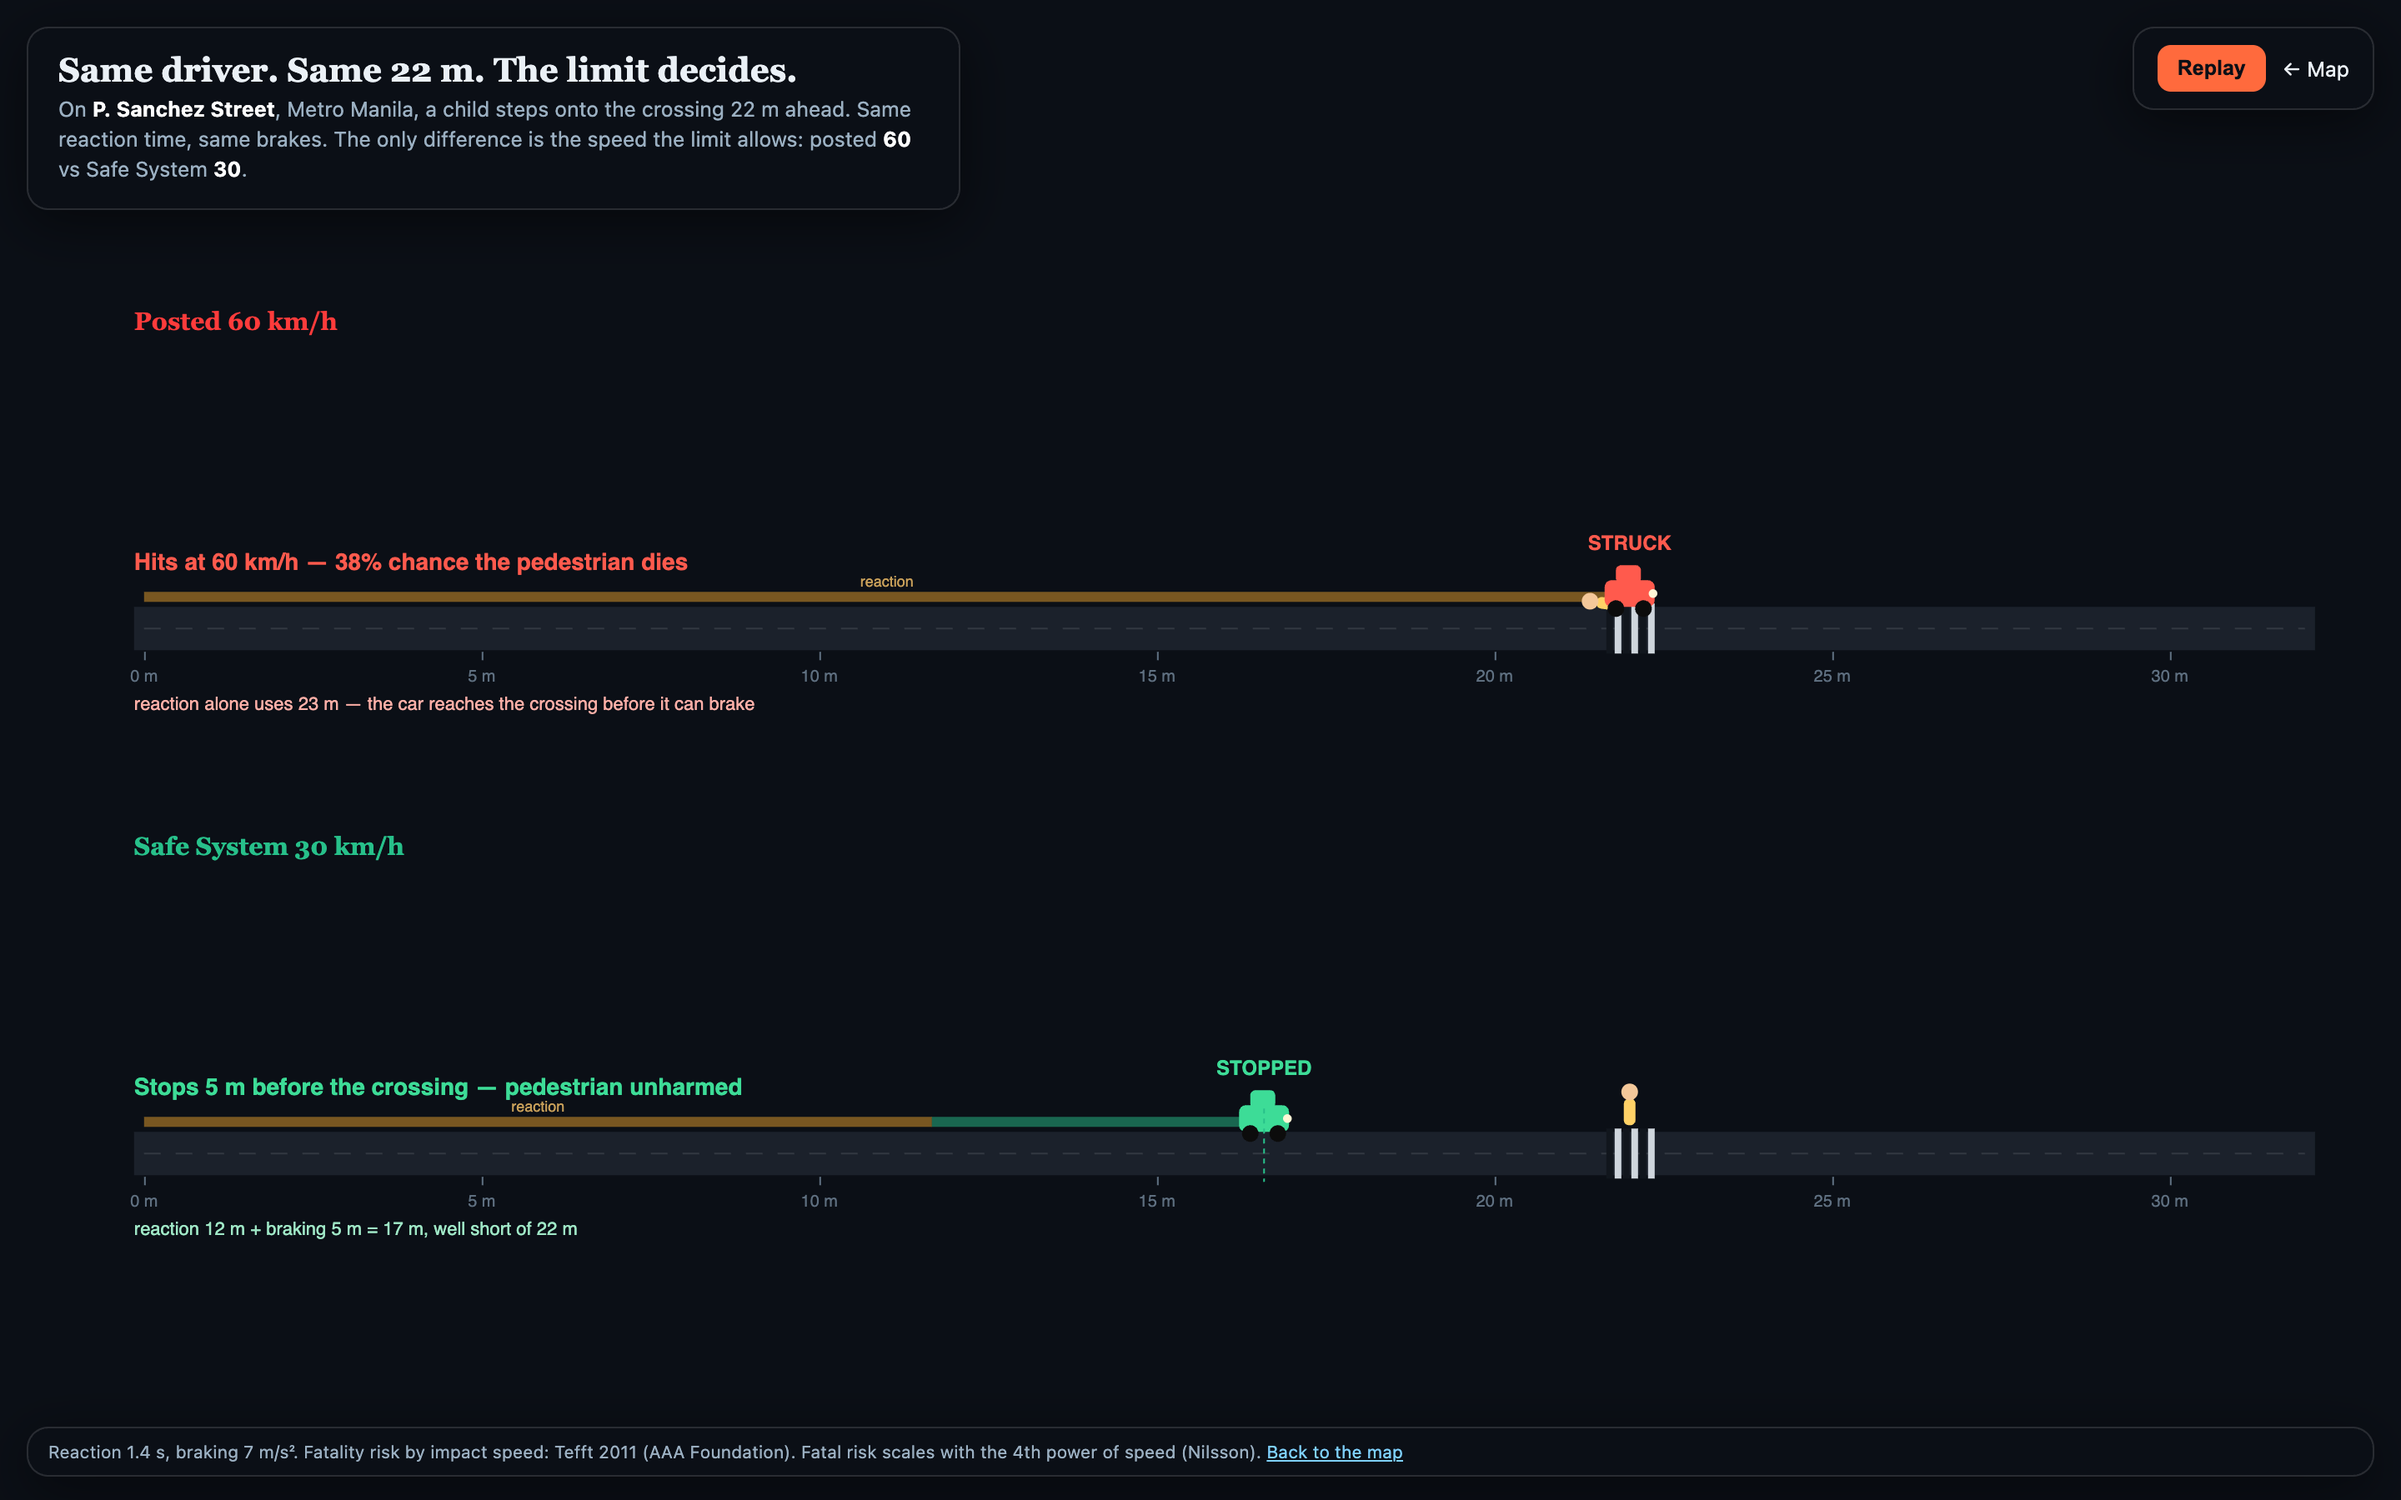
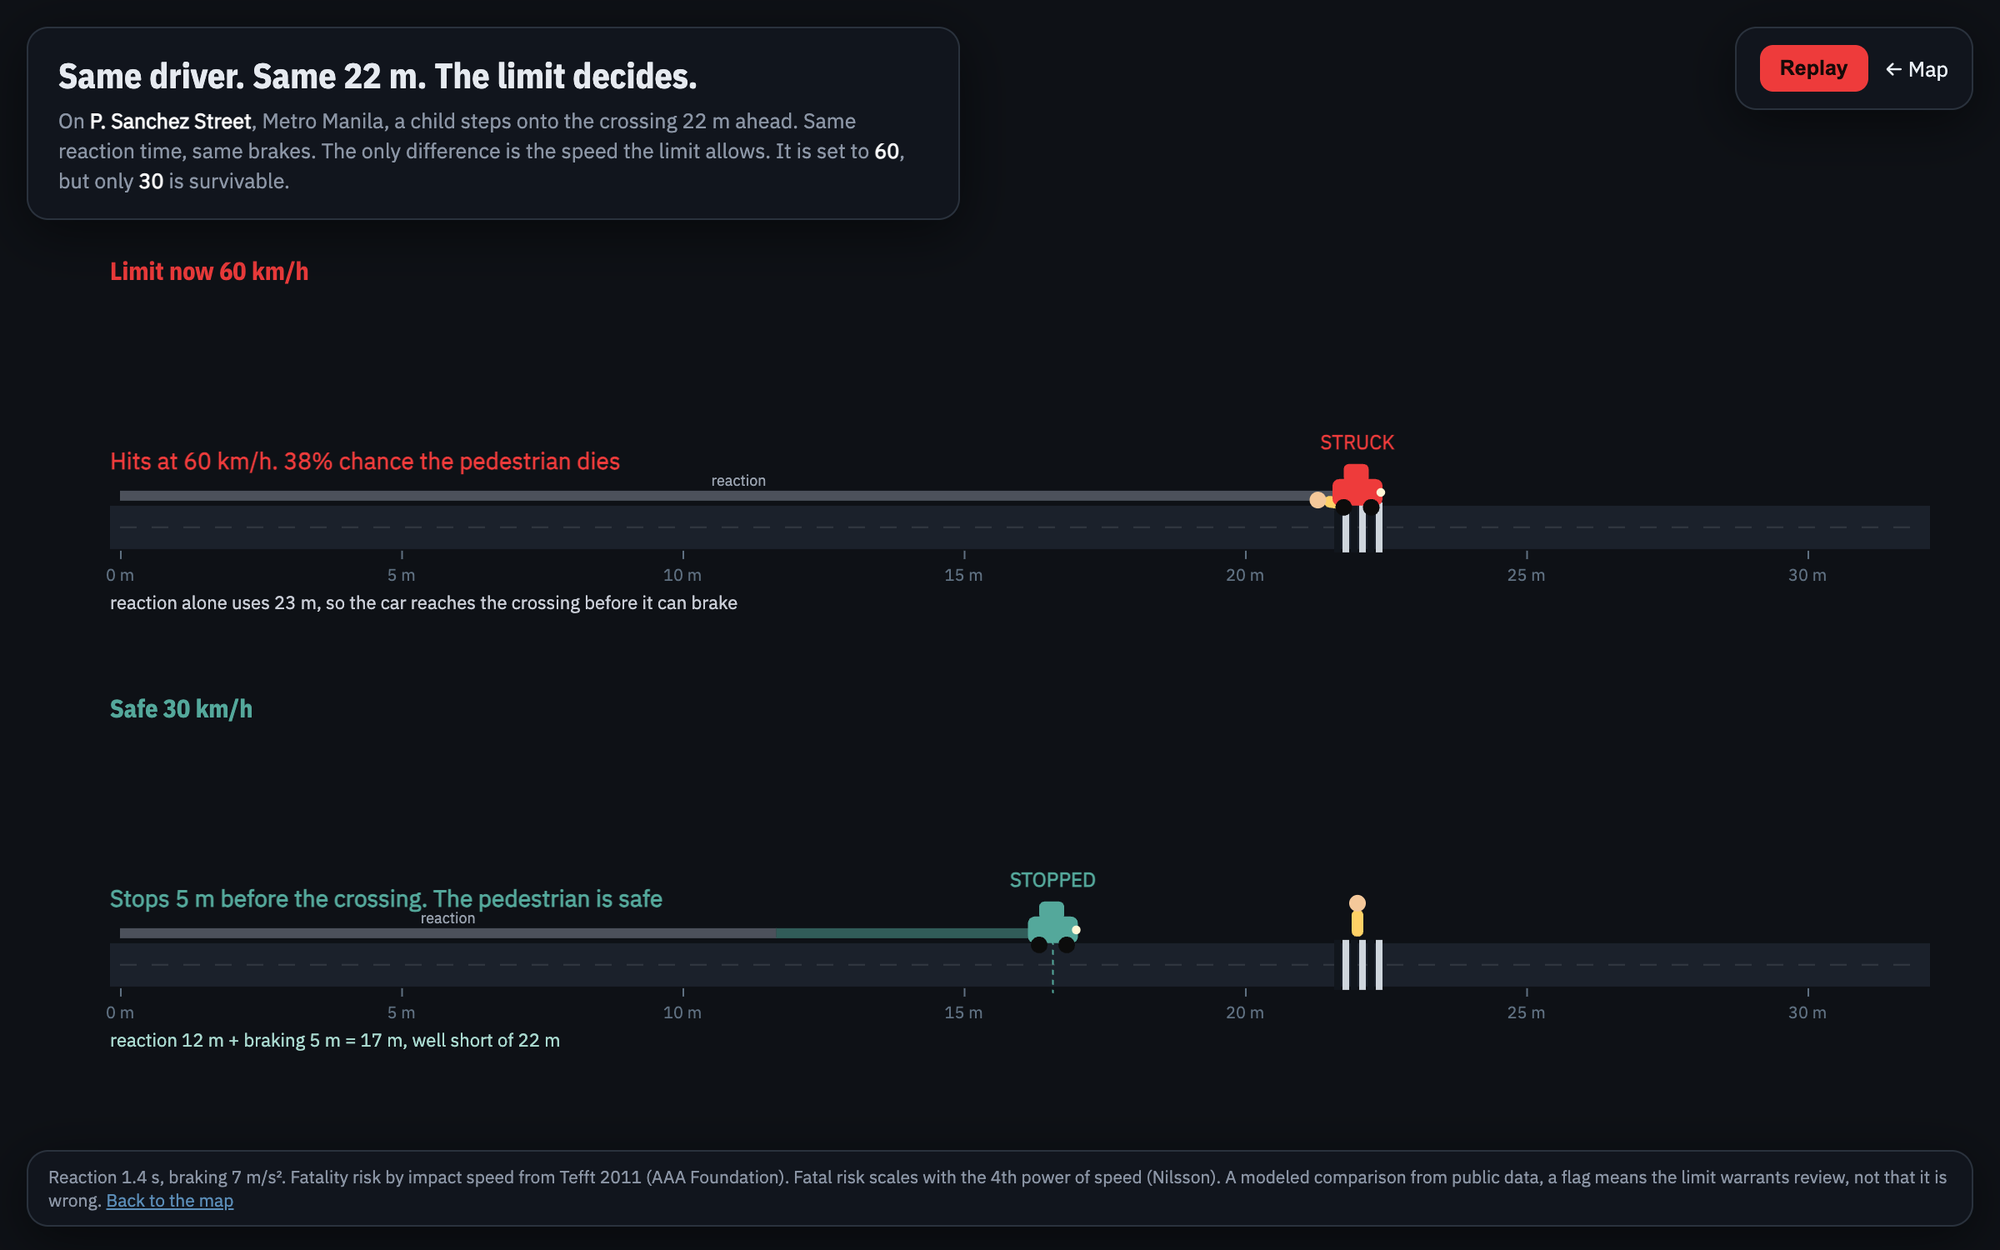
Finish the scarlet recolour on the sim and methodology pages
The map, OG card and hero GIF went scarlet in 99cac59 but the two linked pages
were missed. Recoloured sim.html (the 60 vs 30 stopping-distance sim) so the fast
car and its STRUCK badge are scarlet and the reaction bars are neutral gray
rather than amber, and the methodology accent to scarlet. Regenerated the
screenshots/sim_v2.png that the README embeds so it shows the red car, not the
old coral.

diff --git a/build/web/sim.html b/build/web/sim.html
@@ -9,7 +9,7 @@
   @font-face{font-family:"IBM Plex Sans";src:url(fonts/IBMPlexSans-400.woff2) format("woff2");font-weight:400;font-display:swap}
   @font-face{font-family:"IBM Plex Mono";src:url(fonts/IBMPlexMono-500.woff2) format("woff2");font-weight:500;font-display:swap}
   :root{--bg:#0E1116;--ink:#E6EAF0;--muted:#8B95A5;--line:#2A323D;
-    --glass:rgba(18,22,30,.84);--danger:#E0574A;--safe:#54A89B;--amber:#FB9F3A;--accent:#E0574A;
+    --glass:rgba(18,22,30,.84);--danger:#EE3B3B;--safe:#54A89B;--amber:#FF3A46;--accent:#EE3B3B;
     --font-display:"IBM Plex Sans Condensed","IBM Plex Sans",system-ui,sans-serif;
     --font-body:"IBM Plex Sans",system-ui,sans-serif;--font-data:"IBM Plex Mono",ui-monospace,monospace}
   *{box-sizing:border-box}
@@ -117,7 +117,7 @@ function step(s,dt){
 }
 function stageShot(){for(const s of scenes){let g=0;while(s.state!=='done'&&g++<5000)step(s,0.01);}}
 
-const colors={danger:{a:'#E0574A',line:'#E0574A'},safe:{a:'#54A89B',line:'#54A89B'}};
+const colors={danger:{a:'#EE3B3B',line:'#EE3B3B'},safe:{a:'#54A89B',line:'#54A89B'}};
 function mx(m){const l=W*PAD_L,r=W*(1-PAD_R);return l+(m/SPAN)*(r-l);}
 function drawCar(x,y,col,w){ctx.save();ctx.translate(x,y);
   ctx.fillStyle=col;roundRect(-w,-13,w*2,16,4);ctx.fill();
@@ -146,11 +146,11 @@ function drawScene(s,top,h){
   for(let i=0;i<6;i++){ctx.fillStyle=i%2?'#cfd6dd':'#11161d';ctx.fillRect(cx-14+i*5,road-2,4,30);}
   // travelled bar: reaction (amber) + braking (theme), shows what is just reaction time
   const reactM=Math.min(s.x,s.v0*TR), brakeM=Math.max(0,s.x-reactM);
-  ctx.fillStyle='rgba(255,176,46,.45)';ctx.fillRect(mx(0),road-9,mx(reactM)-mx(0),6);
-  ctx.fillStyle=s.theme==='danger'?'rgba(224,87,74,.5)':'rgba(84,168,155,.5)';
+  ctx.fillStyle='rgba(150,160,175,.45)';ctx.fillRect(mx(0),road-9,mx(reactM)-mx(0),6);
+  ctx.fillStyle=s.theme==='danger'?'rgba(238,59,59,.5)':'rgba(84,168,155,.5)';
   ctx.fillRect(mx(reactM),road-9,mx(reactM+brakeM)-mx(reactM),6);
   // bar labels (non-colour cue for what the distance is made of)
-  if(reactM>0.5){ctx.font='9px "IBM Plex Sans",sans-serif';ctx.fillStyle='#caa15a';ctx.textAlign='center';
+  if(reactM>0.5){ctx.font='9px "IBM Plex Sans",sans-serif';ctx.fillStyle='#9aa3b0';ctx.textAlign='center';
     ctx.fillText(TXT.reaction,(mx(0)+mx(reactM))/2,road-12);}
   // pedestrian at crossing
   ped(cx,road,s.state==='done'&&s.impact>0);
@@ -158,15 +158,15 @@ function drawScene(s,top,h){
   drawCar(mx(s.x),road-3,colors[s.theme].a,15);
   // text result badge (carries the outcome without relying on colour)
   if(s.state==='done'){ctx.font='800 12px "IBM Plex Sans",sans-serif';ctx.textAlign='center';
-    ctx.fillStyle=s.impact>0?'#E0574A':'#54A89B';
+    ctx.fillStyle=s.impact>0?'#EE3B3B':'#54A89B';
     ctx.fillText(s.impact>0?TXT.struck:TXT.stopped,mx(s.x),road-34);}
   // outcome
   if(s.state==='done'){
     ctx.textAlign='left';ctx.font='700 14px "IBM Plex Sans",sans-serif';
     if(s.impact>0){const k=s.impact*3.6,risk=fatalRisk(k);
-      ctx.fillStyle='#E0574A';
+      ctx.fillStyle='#EE3B3B';
       ctx.fillText(TXT.hits(k.toFixed(0),risk.toFixed(0)),mx(0)-6,road-22);
-      ctx.font='11px "IBM Plex Sans",sans-serif';ctx.fillStyle='#ECC4BE';
+      ctx.font='11px "IBM Plex Sans",sans-serif';ctx.fillStyle='#C9CDD6';
       ctx.fillText(TXT.hitsub((s.v0*TR).toFixed(0)),mx(0)-6,road+62);
     }else{const short=GAP-s.stopX;
       ctx.fillStyle='#54A89B';

diff --git a/build/web/methodology.html b/build/web/methodology.html
@@ -9,7 +9,7 @@
   @font-face{font-family:"IBM Plex Sans";src:url(fonts/IBMPlexSans-400.woff2) format("woff2");font-weight:400;font-display:swap}
   @font-face{font-family:"IBM Plex Sans";src:url(fonts/IBMPlexSans-600.woff2) format("woff2");font-weight:600;font-display:swap}
   @font-face{font-family:"IBM Plex Mono";src:url(fonts/IBMPlexMono-500.woff2) format("woff2");font-weight:500;font-display:swap}
-  :root{--bg:#0E1116;--ink:#E6EAF0;--muted:#8B95A5;--line:#2A323D;--card:#161B24;--accent:#E0574A;
+  :root{--bg:#0E1116;--ink:#E6EAF0;--muted:#8B95A5;--line:#2A323D;--card:#161B24;--accent:#EE3B3B;
     --font-display:"IBM Plex Sans Condensed","IBM Plex Sans",system-ui,sans-serif;
     --font-body:"IBM Plex Sans",system-ui,sans-serif;--font-data:"IBM Plex Mono",ui-monospace,monospace}
   *{box-sizing:border-box}
@@ -18,7 +18,7 @@
   .wrap{max-width:760px;margin:0 auto;padding:48px 22px 80px}
   a{color:#5B8DB8}
   h1{font-family:var(--font-display);font-weight:700;font-size:28px;letter-spacing:.004em;margin:0 0 6px}
-  h2{font-family:var(--font-display);font-weight:700;font-size:20px;margin:34px 0 10px;border-bottom:1px solid rgba(224,87,74,.32);padding-bottom:6px}
+  h2{font-family:var(--font-display);font-weight:700;font-size:20px;margin:34px 0 10px;border-bottom:1px solid rgba(238,59,59,.32);padding-bottom:6px}
   td:nth-child(2){font-family:var(--font-data);font-variant-numeric:tabular-nums slashed-zero}
   .lead{color:var(--muted);font-size:15px}
   table{border-collapse:collapse;width:100%;font-size:13.5px;margin:10px 0}
